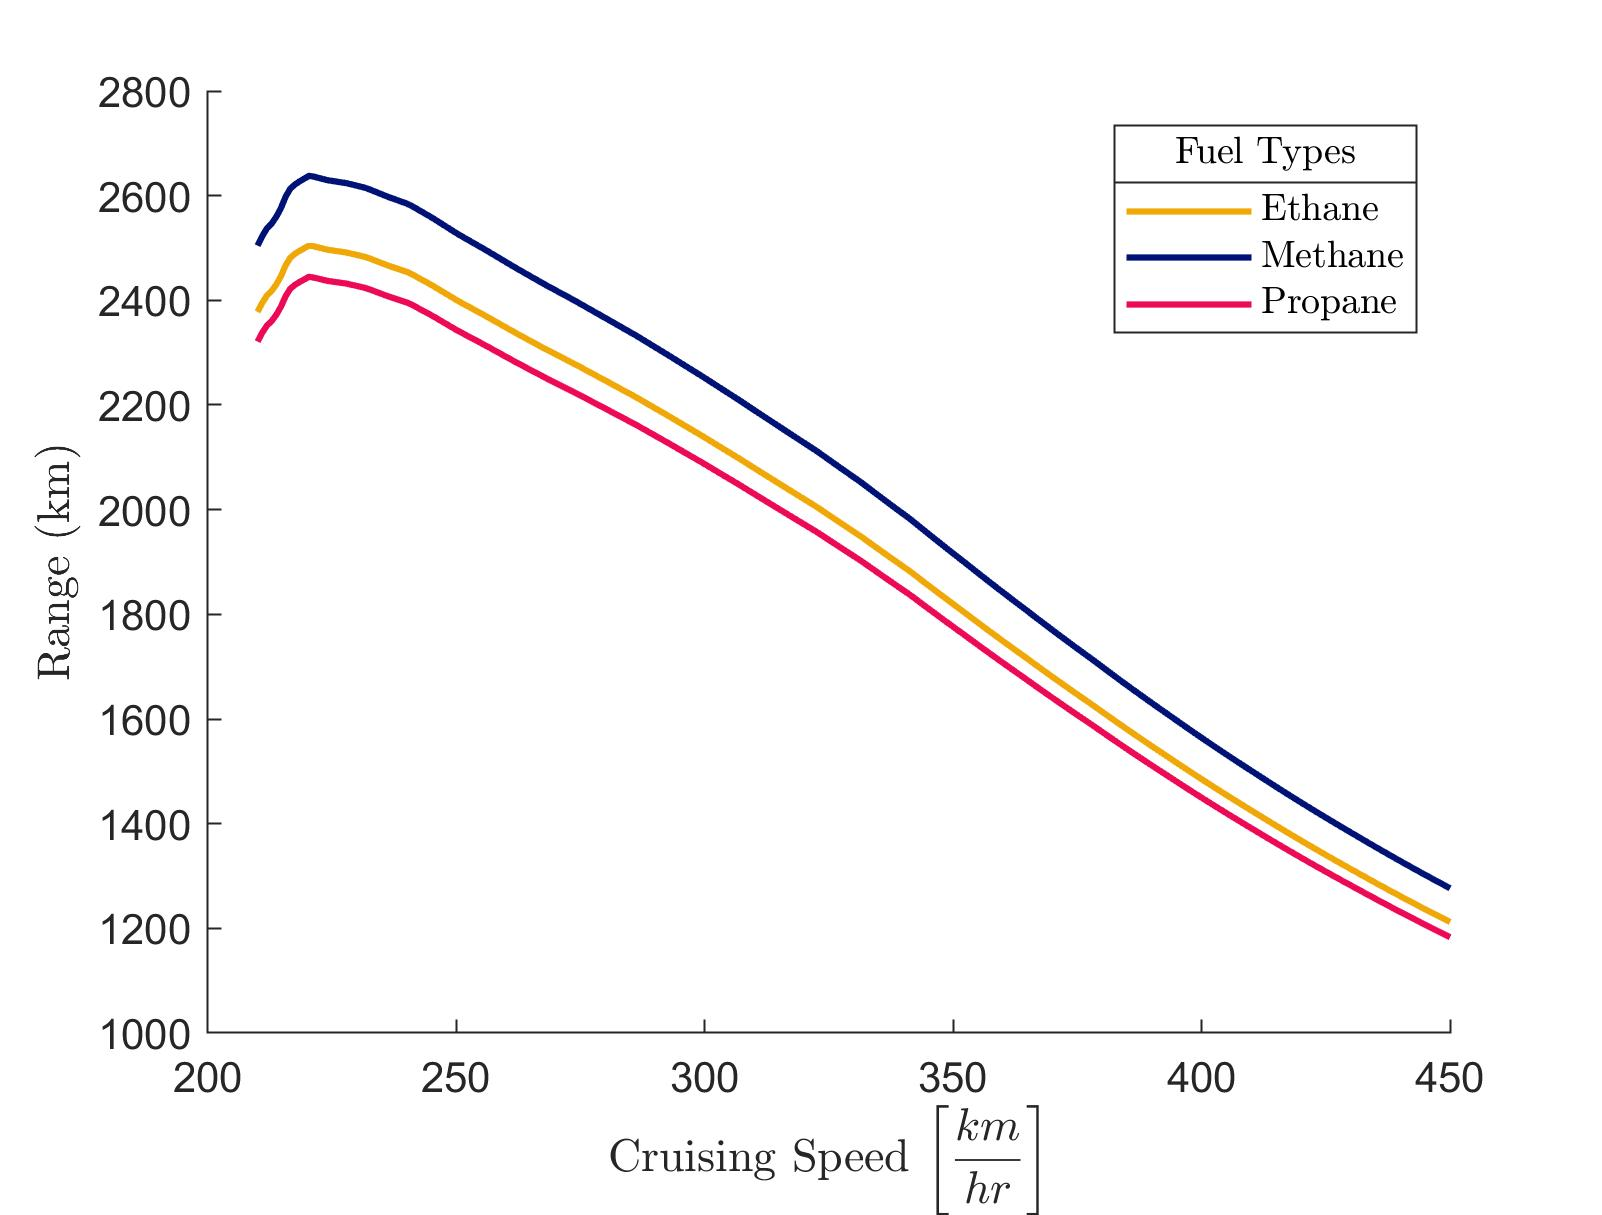
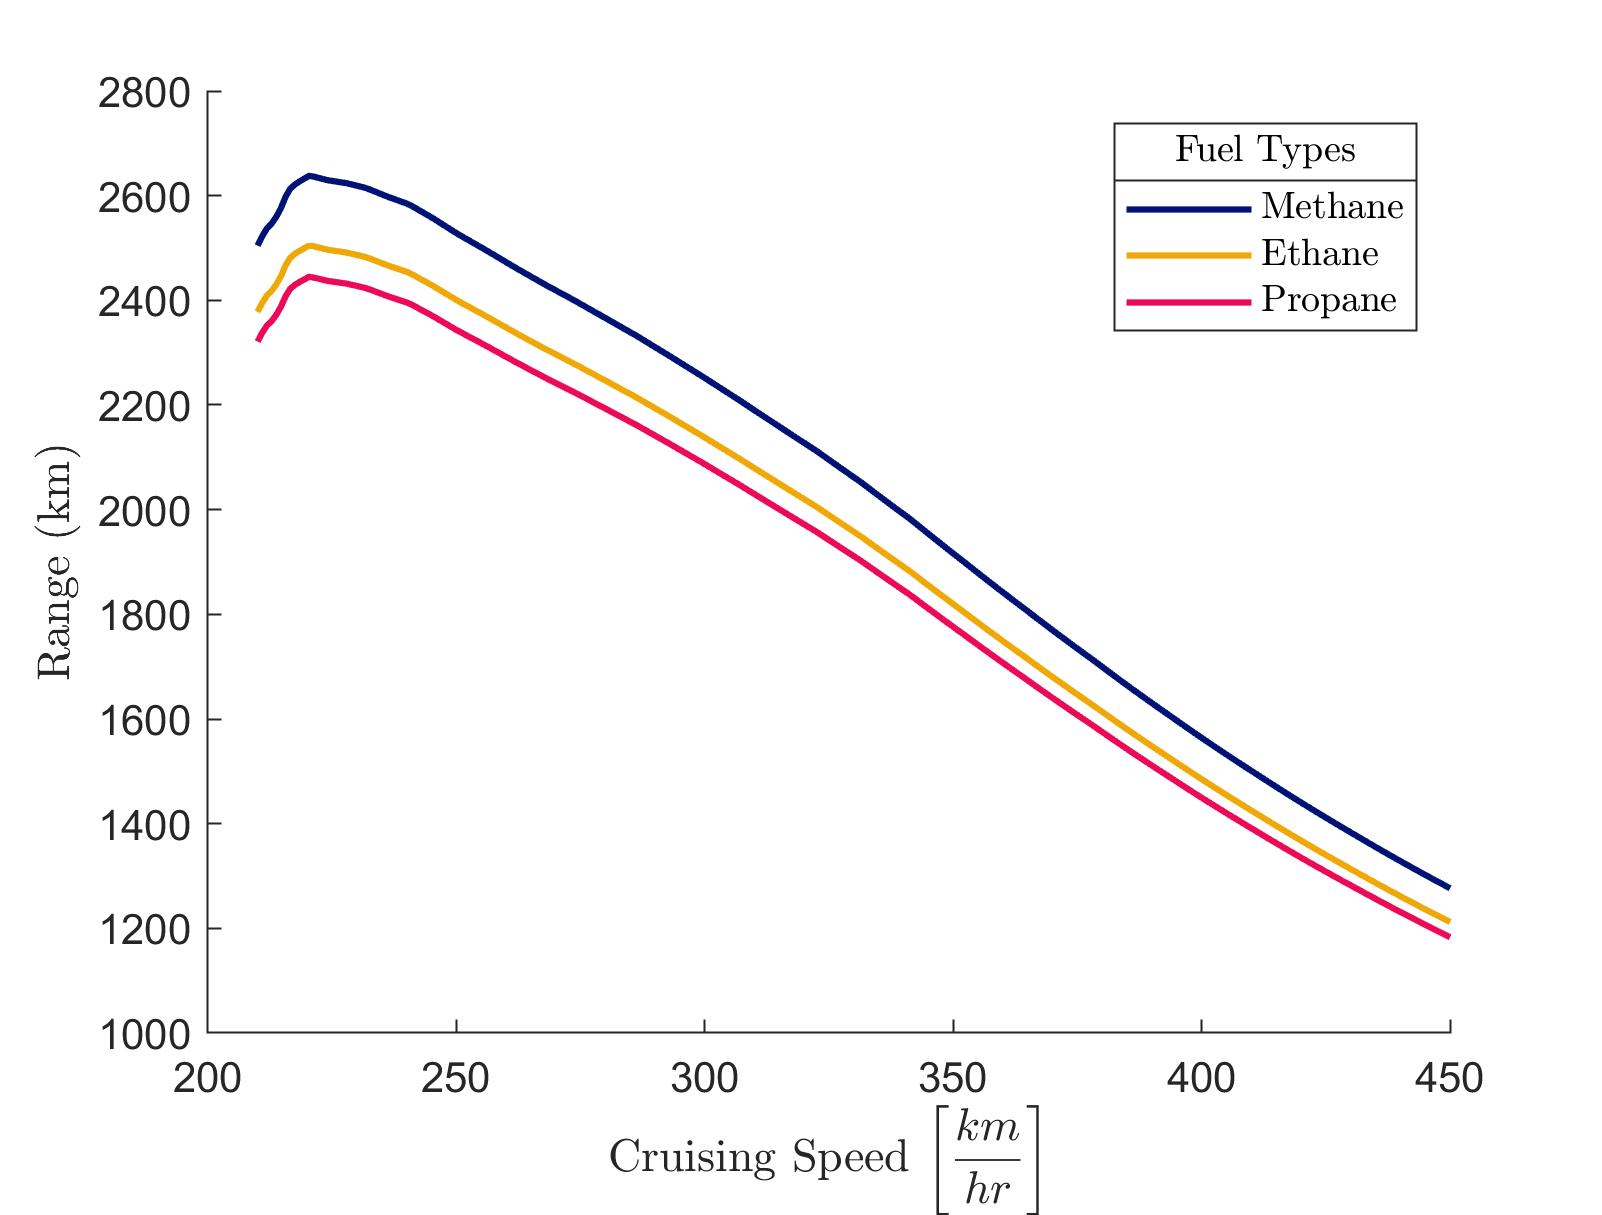
Rearranged the legend for graph 2

Changed region(s): [[0.6866, 0.0914, 0.8739, 0.2741]]

diff --git a/Main_part_2.m b/Main_part_2.m
@@ -57,13 +57,13 @@ emissions_propane = (moles_co2_propane*M_mass_co2)/1000;   %   kg; carbon dioxid
 %% Plotting
 figure('Units','inches','Position',[2 1 3.56 2.7].*1.5)
 hold on
-plot(v,range(1,:),'Color','#F0A808','LineWidth',1.5)  %   plotted seperately only so i could choose the colors
-plot(v,range(2,:),'Color','#001275','LineWidth',1.5)  %   could be plotted easier with plot(v,range)
-plot(v,range(3,:),'Color','#EC0955','LineWidth',1.5)
+plot(v,range(2,:),'Color','#001275','LineWidth',1.5,'DisplayName','Methane')  %   could be plotted easier with plot(v,range)
+plot(v,range(1,:),'Color','#F0A808','LineWidth',1.5,'DisplayName','Ethane')  %   plotted seperately only so i could choose the colors
+plot(v,range(3,:),'Color','#EC0955','LineWidth',1.5,'DisplayName','Propane')
 % title('UAV Range w.r.t its Cruising Speed and Fuel Type')
 xlabel('Cruising Speed $$\left[\frac{km}{hr}\right]$$','Interpreter','latex')
 ylabel('Range (km)','Interpreter','latex')
-legend('Ethane','Methane','Propane','Interpreter','latex')
+legend('Interpreter','latex')
 leg = legend('show');       %   adds a title to the legend
 title(leg,'Fuel Types')     %   adds a title to the legend
 print('Graph-2','-r300','-djpeg') % Auto-export figure1 at a crisp 300 dpi
